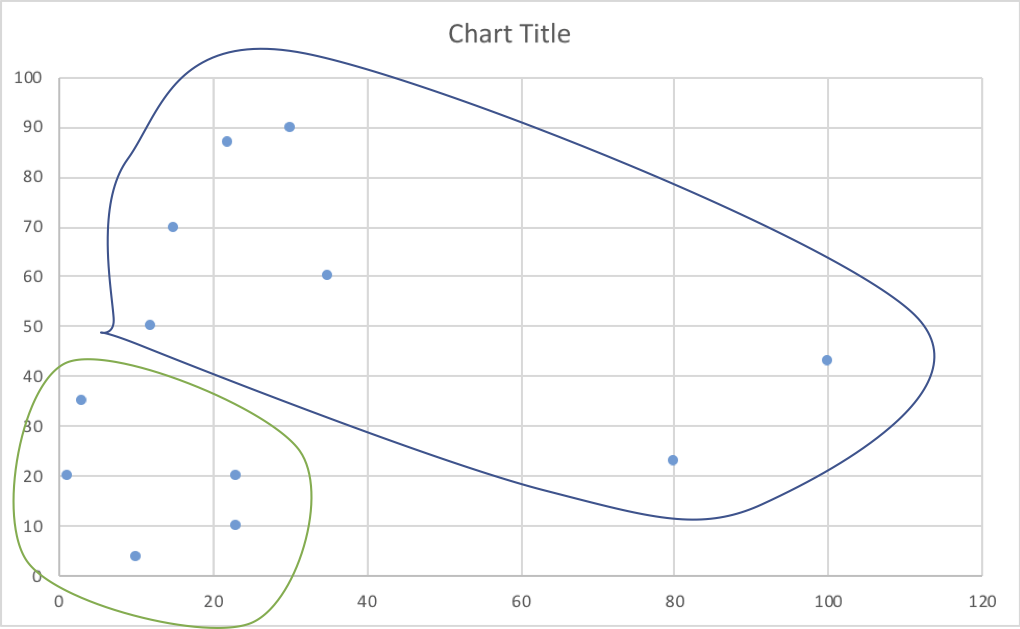
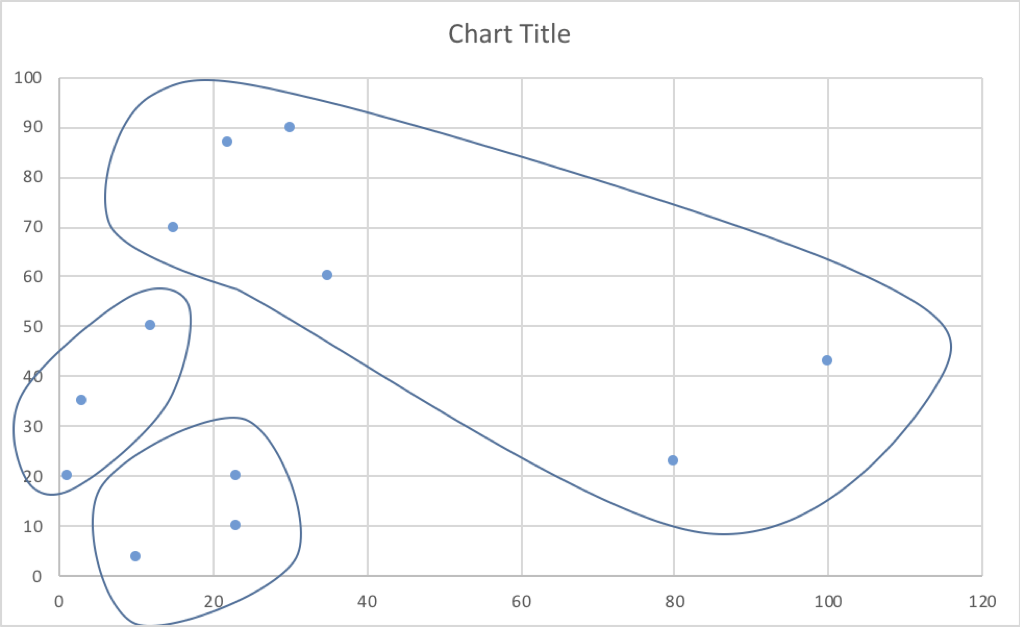
With basic K=3

diff --git a/src/main/java/numerical/basicKMeans/KMeans.java b/src/main/java/numerical/basicKMeans/KMeans.java
@@ -181,7 +181,7 @@ public class KMeans {
         int K = 3;
 
 
-        File file = new File("src//main//java//numerical//input.txt");
+        File file = new File("src//main//java//numerical//basicKMeans//input.txt");
 
         //Step1: Read Features
         List<String> lines = FileUtils.readLines(file,"UTF-8");

diff --git a/src/main/java/numerical/bisectingKmeans/Bisecting.java b/src/main/java/numerical/bisectingKmeans/Bisecting.java
@@ -4,5 +4,9 @@ package numerical.bisectingKmeans;
  * Created by skynet on 05/08/18
  */
 public class Bisecting {
-    
+    //We will use k-means internally
+
+    public static void main(String args[]) {
+
+    }
 }

diff --git a/src/main/java/numerical/basicKMeans/README.md b/src/main/java/numerical/basicKMeans/README.md
@@ -3,22 +3,21 @@ Numerical KMeans Clustering
 <br>Expected Output:
 <br>
 <pre>
- 0 1 1 1 0 1 1 1 1 1 1 1
- 0 0 0 1 0 1 1 1 1 1 1 1
- 0 0 0 0 0 1 1 1 1 1 1 1
- 0 0 0 0 0 1 1 1 1 1 1 1
-23 10 ==>  Cluster-0
-23 20 ==>  Cluster-0
-1 20 ==>  Cluster-0
-3 35 ==>  Cluster-0
-10 4 ==>  Cluster-0
-15 70 ==>  Cluster-1
-100 43 ==>  Cluster-1
-22 87 ==>  Cluster-1
-30 90 ==>  Cluster-1
-12 50 ==>  Cluster-1
-35 60 ==>  Cluster-1
-80 23 ==>  Cluster-1
+  0 1 2 2 0 1 1 1 1 1 1 1
+  0 0 2 2 0 1 1 1 1 2 1 1
+  0 0 2 2 0 1 1 1 1 2 1 1
+ 23 10 ==>  Cluster-0
+ 23 20 ==>  Cluster-0
+ 1 20 ==>  Cluster-2
+ 3 35 ==>  Cluster-2
+ 10 4 ==>  Cluster-0
+ 15 70 ==>  Cluster-1
+ 100 43 ==>  Cluster-1
+ 22 87 ==>  Cluster-1
+ 30 90 ==>  Cluster-1
+ 12 50 ==>  Cluster-2
+ 35 60 ==>  Cluster-1
+ 80 23 ==>  Cluster-1
 </pre>
 
 <img src='kmean-numeric.png'>
